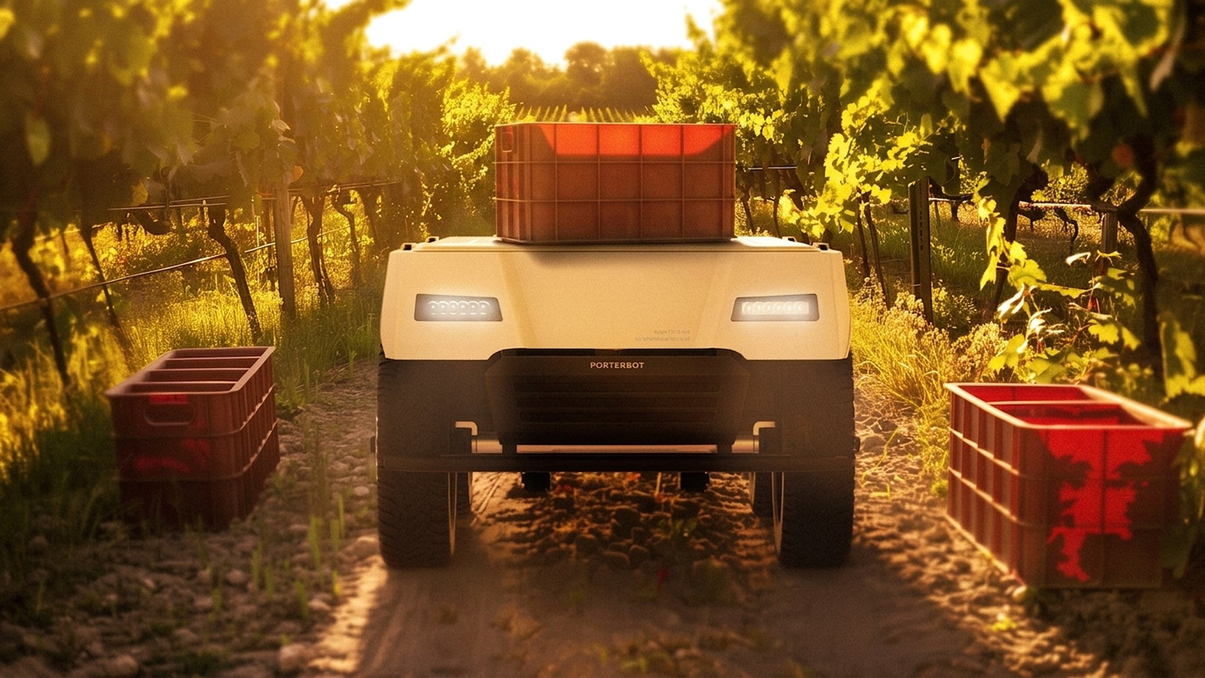
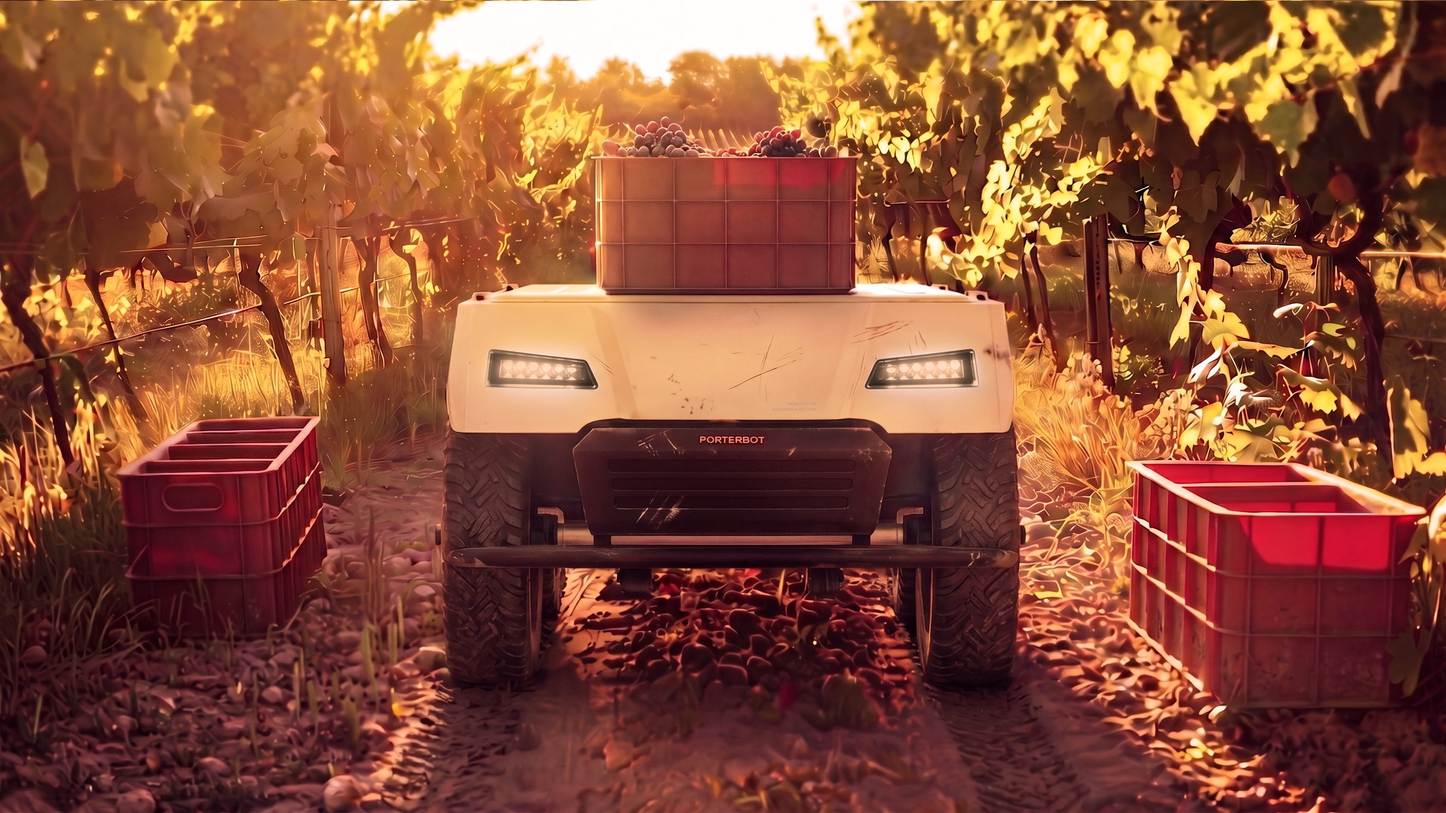
Replace last PORTERBOT detail image with new photo
Claude-Session: https://claude.ai/code/session_01DuSswWf5f4YisWgcdZdx4a

diff --git a/povervot.html b/povervot.html
@@ -28,7 +28,7 @@
 <div class="imgs">
 <img src="images/potervot-1.jpg" width="2000" height="2931" alt="PORTERBOT 이미지 1" loading="lazy">
 <img src="images/potervot-2.jpg" width="2000" height="1279" alt="PORTERBOT 이미지 2" loading="lazy">
-<img src="images/potervot-3.jpg" width="2000" height="1125" alt="PORTERBOT 이미지 3" loading="lazy">
+<img src="images/potervot-3.jpg" width="2400" height="1350" alt="PORTERBOT 이미지 3" loading="lazy">
 </div>
 <nav class="pn"><a href="unveiling.html"><span>Prev</span>UNVEILING</a><a href="bymory.html"><span>Next</span>BY MORY</a></nav>
 </div>
